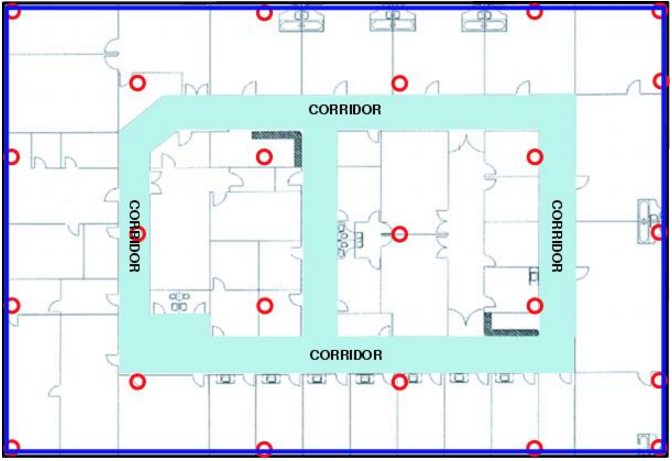
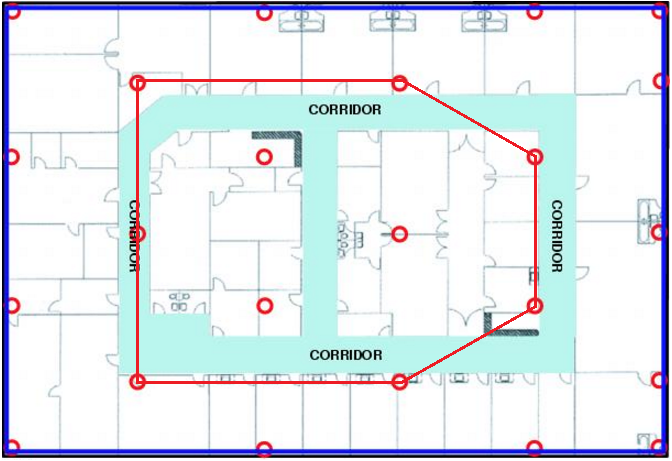
edit picture

diff --git a/4sprint/security.tex b/4sprint/security.tex
@@ -1,0 +1,47 @@
+\section{Security considerations}
+In order to increase security in our system, different considerations was made. These considerations are made in order to make it more difficult for outsiders to access the system as well hide sensitive user information except for the mac-address.
+\ofx{tie this to sprint1 security}
+\subsection*{HTTPS and Certificates} 
+%  HTTPS and SSL certificate. May want to talk more about where we could use it in our system
+To increase security against unauthorised personal a HTTPS connection could be established. HTTPS is short for \textit{Hyper Text Transfer Protocol Secure} and is the secure form of HTTP. With HTTP everything send as plain text and can be read by anyone who access the connection, but what makes HTTPS secure is that this pure text is encrypted. This means that if someone gains access the connection they would not be able to read the information. A secure connection is therefore very important on sites that handles sensitive information such as CPR-numbers or credit card information and this can be achieved by using HTTPS\cite{HTTPS}.
+
+\begin{figure}[ht]
+	\begin{center}
+		\includegraphics[scale=0.9]{graphics/HTTPS.png}
+		\caption{HTTPS \cite{https_pic}.}
+		\label{fig:HTTPS}
+	\end{center} 
+\end{figure}
+
+\Cref{fig:HTTPS} shows how HTTPS works after the key exchange have taken place. First the sender sends plain text, which is encrypted using the recipients public key. The encrypted message is then send and decrypted using the recipients private key before plain text is received.
+
+The handshake between the browser and a site using HTTPS starts with an exchange of public SSL-keys (Secure Socket Layer). The SSL-key is unique and enable encrypt of the data you send, the encrypted data can then only be decrypted with your own private key\cite{HTTPS}. 
+
+\subsection*{Hashing}
+In order to protect sensitive information it would be adventitious to hash some of the information we get from Cisco, it would make sense to hash the passwords. 
+It have been requested by the heatmap application group to have a unique identification of all people. If we are not allowed to store the MAC-Address, a solution to this would be to hash the MAC-Address with a random, daily changing salt-value. In this way it will be possible for the heatmap to track people for as long af the salt-value is unchanged.
+
+Java have a hash-method implemented in the object class called \textit{hashCode()}, this may be used for hashing information. However hashCode() does not use a changing value and the method would therefore have to be overwritten or the value that should be hashed may be changed. E.g. if we are to hash the MAC-Address an option would be as such:
+\begin{lstlisting}[caption={Hash a MAC-Address},label={lst:hash},language=inc_Java]
+hash = MAC\_Address + salt.toString();
+hash.hashCode();
+\end{lstlisting}
+
+
+%Hash function are most commonly used to store a users password or other sensitive data. I functions as a one way function, when a message is hashed it can not be reversed again. The formal definition is shown below:
+
+%\begin{quote}
+	%\textit{'A hash function is a computationally efficient function mapping binary strings of arbitrary length to binary strings of some fixed length, called hash-values.'\cite{Hash_def}}
+%\end{quote}
+
+%When using a hash function properly, you add a random generate string that extends the original message, the generate string is called a salt and make the hash function more secure.
+
+\subsection*{Adding servers to client}
+\subsection*{Accessors}
+\subsection*{Hard-coded passwords}
+
+\subsection*{Visibility}
+As of now the most of our system is public, by decreasing the level of visibility to have more private and protected classes and methods, the system would be more secure.
+ 
+\subsection*{Obfuscate personal information}
+In order to ensure our users personal information, it have been considered to obfuscate their E-mail as well as their Ip-addresses in the same manner as it is done to the MAC-address. By doing so there will be no way for outsiders to identify people unwilling to have their information stored.

diff --git a/3sprint/trackingsystem.tex b/3sprint/trackingsystem.tex
@@ -13,7 +13,7 @@ The initial requirement for the equipment is that it comes with a wireless anten
 Based on the above requirement we found two brands, Ubiquiti and D-link, the latter of which is considered the cheaper brand. We ordered one router, two expensive access points and five cheap access points from each brand.
 
 \subsection*{The physical setup}\ofx{we may want to move this?}
-Cisco\cite{access_point_placement} have guidelines for how to place the access points in order to get the best coverage for your system. They recommend that there is an access point in each corner of the building and some along the perimeters. In addition, if the building is large enough, access points should be placed within the perimeter to form a sub-perimeter which itself may contain a sub-perimeter and so on. This is illustrated in \cref{access_placement}, in which the red circles are access points. The perimeter established by the outer-most access points should encapsulate the entire floor. Everything on this perimeter is called the \textit{hull}\cite{access_point_placement}.
+Cisco\cite{access_point_placement} have guidelines for how to place the access points in order to get the best coverage for your system. They recommend that there is an access point in each corner of the building and some along the perimeters. In addition, if the building is large enough, access points should be placed within the perimeter to form a sub-perimeter which itself may contain a sub-perimeter and so on. This is illustrated in \cref{access_placement}, in which the red circles are access points. The perimeter established by the outer-most access points should encapsulate the entire floor, as illustrated by the blue line and the sub-perimeter by the red line. Everything on this perimeter is called the \textit{hull}\cite{access_point_placement}.
 
 Each access point should be place 50-70 feet away from each other in order to get a high precision without interference and unnecessary overlap\cite{access_point_range}.
 
